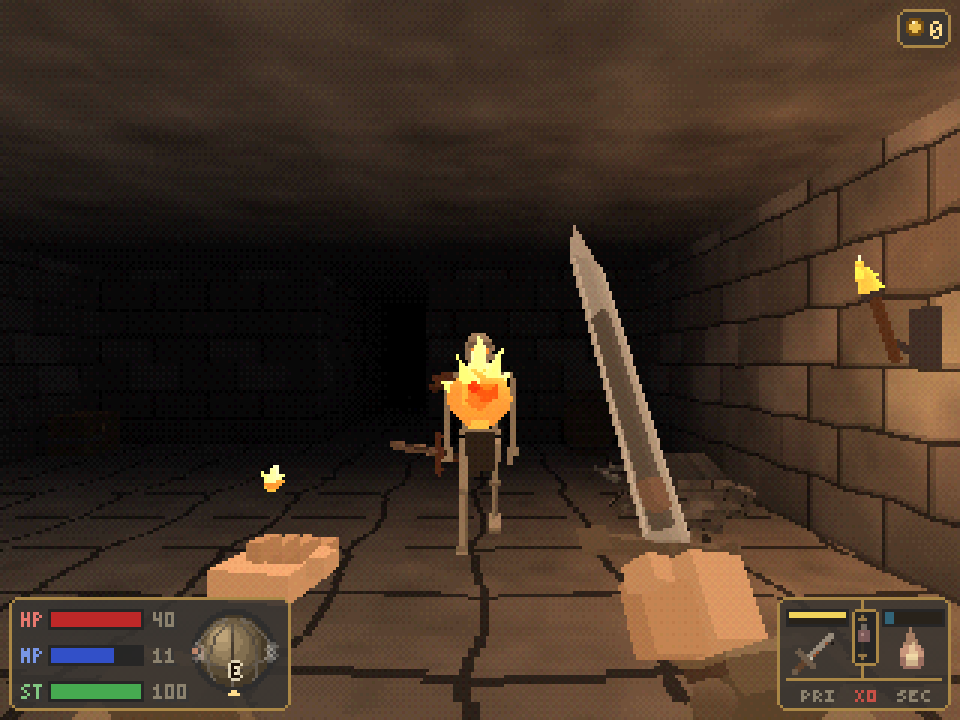
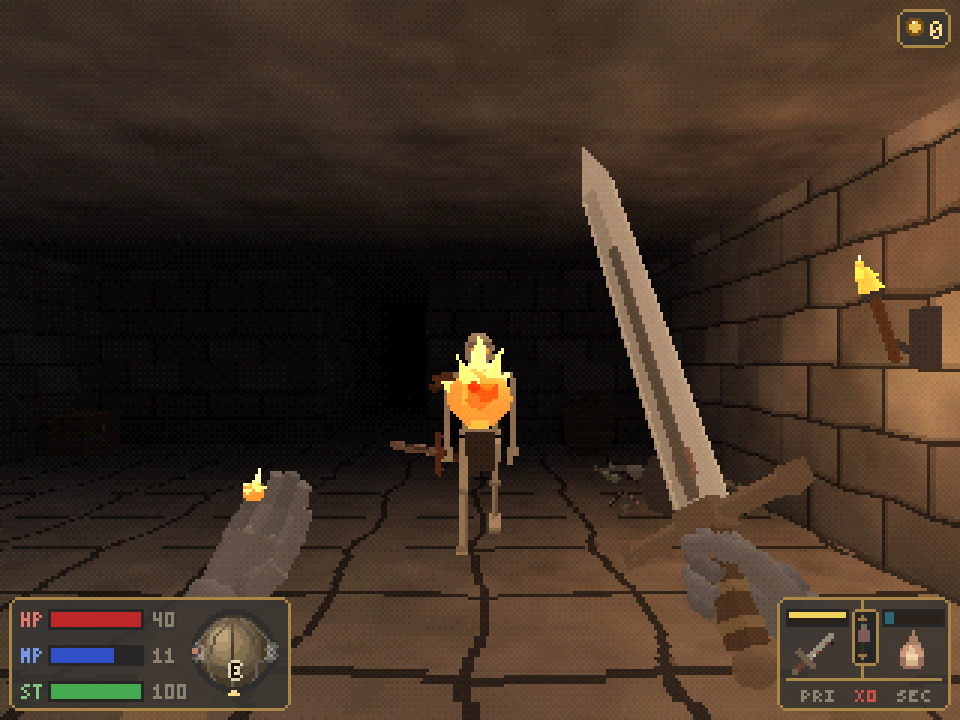
Tell the cemetery's story in the README and retake the screenshots
- The intro, features and project layout cover the Cemetery of Ashes, the
  Ashen Sexton and its moves, the Shrouded Mourner, spells taught by
  scrolls and the torch shrines
- Four new screenshots: waking by the cemetery's shrine, a Mourner in the
  chapel, the silk burning and the Sexton flinging grave ash, each with its
  command under Debug flags
- Every other screenshot is retaken with its listed command, showing the
  Ashen arms, Odrin's new lines and the shrines' light

diff --git a/README.md b/README.md
@@ -10,12 +10,14 @@
 
 ---
 
-The bell of Harrowmere has cracked. Beneath the village well, the drowned halls of the Sunken Keep have
-begun to stir, and at the end of a green trail out of the square a cave opens on the jungle of the
+You are one of the Ashen, woken in a cemetery of ashes by a single toll of Harrowmere's bell, though no
+hand was on its rope. Old Odrin, the bell-keeper, knows the prophecy: whoever wakes must win four sigils
+to raise the king who sits turned to stone in the cathedral. Many Ashen woke before you. None came back.
+Beneath the village well, the drowned halls of the Sunken Keep have begun to stir, and at the end of a green trail out of the square a cave opens on the jungle of the
 Verdant Hollow, which has swallowed the old woodcutters' camp. Up the north road, past a long bridge over
 a gorge of fire, the forges of the Cinderhold burn again, and two iron gargoyles keep watch from its roof.
 Take up a rusted sword, bring back the Ember Sigil from the keep, the Verdant Sigil from the hollow and the
-Iron Sigil from the Cinderhold, and let the bell sing again.
+Iron Sigil from the Cinderhold, and let the bell sing again. Where the fourth lies, not even the prophecy says.
 
 ### Inspiration
 
@@ -38,6 +40,22 @@ FromSoftware, Inc.
   <tr>
     <td align="center"><sub>Title screen</sub></td>
     <td align="center"><sub>The Silent Bell, at the heart of Harrowmere</sub></td>
+  </tr>
+  <tr>
+    <td><img src="docs/screenshots/cemetery.png" alt="Waking in the Cemetery of Ashes: grey ash underfoot between soot-stained walls, a shrine's flame burning in its iron cradle, the first hint below"></td>
+    <td><img src="docs/screenshots/mourner.png" alt="A Shrouded Mourner, a hooded figure in dark robes, bowed by a stone coffin in the cemetery's chapel, the silk-sealed door behind"></td>
+  </tr>
+  <tr>
+    <td align="center"><sub>Waking in the Cemetery of Ashes, by its first shrine</sub></td>
+    <td align="center"><sub>A Shrouded Mourner, bowed at a grave until you come too close</sub></td>
+  </tr>
+  <tr>
+    <td><img src="docs/screenshots/silk.png" alt="The silk sealing the chapel's far door burning away from the bottom up, charred patches glowing at the edges, flames licking up its face"></td>
+    <td><img src="docs/screenshots/sexton.png" alt="The Ashen Sexton in its walled yard, flinging a spadeful of grave ash clods at you, its health bar above"></td>
+  </tr>
+  <tr>
+    <td align="center"><sub>Flame Bolt burning the silk off the chapel door</sub></td>
+    <td align="center"><sub>The Ashen Sexton flings a spadeful of grave ash</sub></td>
   </tr>
   <tr>
     <td><img src="docs/screenshots/dialogue.png" alt="Talking to Odrin the bell-keeper"></td>
@@ -143,7 +161,9 @@ FromSoftware, Inc.
   15-bit color with ordered dithering, distance fog and baked vertex lighting, under skies of drifting
   cloud with a sun glowing through them and mist along the horizon.
 - **Deliberate, weighty combat**: an ATK gauge that refills between swings, enemy wind-ups you can read
-  and interrupt, and bosses with poise and attacks of their own: the Ashen Warden cleaves all around,
+  and interrupt, and bosses with poise and attacks of their own: the Ashen Sexton, keeper of the
+  cemetery's gate, flings spadefuls of grave ash that clog your stride, calls hands of ash up from the
+  ground to clutch at you and, once wounded, tolls its spade like a bell in rings of embers; the Ashen Warden cleaves all around,
   leaps, flings embers, chains three cuts together and slams a shockwave through the floor, and at
   half health his blade catches fire and he calls flame up from beneath your feet; above his hall the
   Butcher swings a cleaver all around him, lunges and hacks, and at half health flies into a frenzy
@@ -162,8 +182,9 @@ FromSoftware, Inc.
   only. A raised shield stops blows from the front for stamina, and you can still back off and sidestep
   behind it. The best gear needs a higher level.
 - **Armor you can see**: body armor and gauntlets change the sleeves and hands you see in first person.
-- **Spells**: Flame Bolt, Mend and Lumen, paid for with MP once your focus has returned, Ashen Ward (embers
-  that blunt every blow) in the keep, and three more
+- **Spells**, each taught by a scroll and paid for with MP once your focus has returned: Flame Bolt in
+  the cemetery's chapel, Mend and Lumen from the town, Ashen Ward (embers that blunt every blow) in the
+  keep, and three more
   hidden in the hollow: Venom Dart (a sting that keeps eating at its target), Veil of Mist (ordinary foes
   overlook you until you strike) and Pyre (a short gout of fire that burns plants and kindles cold fires),
   and two in the Cinderhold: Thunder Spear (a fast bolt of lightning that bites iron and jolts it) and
@@ -172,10 +193,15 @@ FromSoftware, Inc.
   the Slagbreaker maul sets what it strikes alight.
 - **Stamina**: sprinting, swinging and blocking drain a green stamina bar. Run it dry and you are
   winded until it recovers.
-- **Four hand-built areas**: the town of Harrowmere, the Sunken Keep below its well, the
+- **Five hand-built areas**: the Cemetery of Ashes where you wake, the town of Harrowmere, the Sunken Keep below its well, the
   Verdant Hollow at the end of the green trail and the Cinderhold up the north road (its keep a map of
   its own), with locked doors,
   levers, a flooded cellar and chests.
+- **A cemetery to wake in**: the story opens in the Cemetery of Ashes, walled and floored in grey ash,
+  a short first level that teaches as you go. Climb out of your grave, find a rusted sword, cross a field
+  of headstones where Ashen Husks shamble and Shrouded Mourners stand bowed at the graves until you come
+  too close, burn the silk sealing the chapel with the Flame Bolt you find inside, and face the Ashen
+  Sexton before its gate lets you out to Harrowmere, for good.
 - **A town to come home to**: Harrowmere's sandstone and ochre houses, under terracotta roofs and
   among cypresses, olives and umbrella pines, climb on cobbled lanes from its harbour past the market's
   fountain and the Bell Square, where the cracked Silent Bell hangs, to a twin-towered cathedral of
@@ -210,7 +236,8 @@ FromSoftware, Inc.
   the shrines once you reach their far side.
 - **Everything procedural**: textures, low-poly models and sound effects are all generated at startup.
   The game itself ships no image or audio files.
-- **Save shrines**: pray at a stone shrine to heal and record your journey. The fallen rise again when
+- **Save shrines**: pray at a shrine, a stone post with a flame burning in an iron cradle, to heal and
+  record your journey. The fallen rise again when
   you do; only bosses and mimics stay dead.
 
 ## Installing
@@ -405,6 +432,8 @@ it, so Claude Code, Codex, Cursor and Copilot all follow the same rules.
 | `src/ashen_vault/world/elements.py` | Lightning against iron, fire against what was forged in it |
 | `src/ashen_vault/world/arena.py` | Boss arenas: the great door that seals behind you, and the fog left after you fall |
 | `src/ashen_vault/player/burden.py`, `ui/compare.py` | Equipment load and what it costs you; what equipping an item would change |
+| `src/ashen_vault/render/cemetery_models.py` | The Cemetery of Ashes' foes (the Ashen Sexton and its moves, the Ashen Husk, the Shrouded Mourner), headstones, open graves and its gate |
+| `src/ashen_vault/world/hints.py` | The cemetery's tutorial hints, each shown once |
 | `src/ashen_vault/render/forge_models.py` | The Cinderhold's foes, the twin gargoyles, its weapons, shots, fortress dressing and skyline |
 | `src/ashen_vault/render/fortress_props.py` | The Cinderhold's dressing: gargoyle statues, barred and great windows, forge gear, battlements and lava spouts |
 | `src/ashen_vault/render/shapes.py` | Extra low-poly shapes for models: pointed blades, lozenge bars and wedges |
@@ -435,10 +464,17 @@ file. The title is `uv run ashen-vault --smoke 60 --shot title.png` and the vill
 `uv run ashen-vault --map harrowmere --at=22,30,-60 --smoke 40 --shot village.png`; Odrin is
 `uv run ashen-vault --map harrowmere --at=28,25,-90 --smoke 40 --script "wait:0.2 interact" --shot dialogue.png`,
 Belongings is
-`uv run ashen-vault --map harrowmere --level 6 --equip primary=katana,secondary=round_shield,body=brigandine,hands=chain_mitts --smoke 40 --script "wait:0.2 menu" --shot inventory.png`,
+`uv run ashen-vault --map harrowmere --at=20,44,-90 --level 6 --equip primary=katana,secondary=round_shield,body=brigandine,hands=chain_mitts --smoke 40 --script "wait:0.2 menu" --shot inventory.png`,
 Corvane's shop is
 `uv run ashen-vault --map harrowmere --at=6,26,180 --level 7 --smoke 220 --script "forward:2 interact wait:0.3 confirm wait:0.3 confirm wait:0.3 confirm wait:0.3 confirm" --shot corvane.png`,
 the cathedral is `uv run ashen-vault --map harrowmere --at=18,6,180 --smoke 40 --shot cathedral.png`,
+the cemetery is `uv run ashen-vault --map ashen_cemetery --smoke 40 --shot cemetery.png`,
+the Mourner is `uv run ashen-vault --map ashen_cemetery --at=11,22,-90 --smoke 40 --shot mourner.png`,
+the burning silk is
+`uv run ashen-vault --map ashen_cemetery --at=12,18,-135 --smoke 90 --script "wait:0.3 cast wait:0.9" --shot silk.png`,
+the Sexton is
+`uv run ashen-vault --map ashen_cemetery --at=10,11,-90 --smoke 220 --script "wait:0.1 interact wait:1 forward:1.2 wait:1" --shot sexton.png`
+(its move is random, so take it again until it flings),
 the forge is `uv run ashen-vault --map harrowmere --at=8,18,180 --smoke 40 --shot forge.png`,
 the Warden is `uv run ashen-vault --map sunken_keep --at=15,7,-90 --smoke 40 --shot warden.png`,
 the hollow's vine path is `uv run ashen-vault --map verdant_hollow --at=9,12,90 --smoke 40 --shot verdant_hollow.png`,
